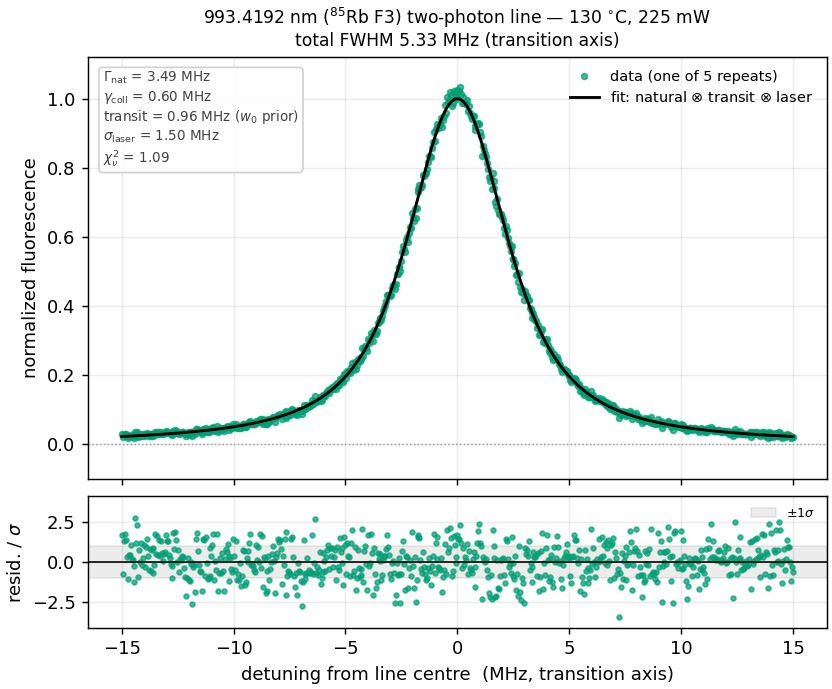
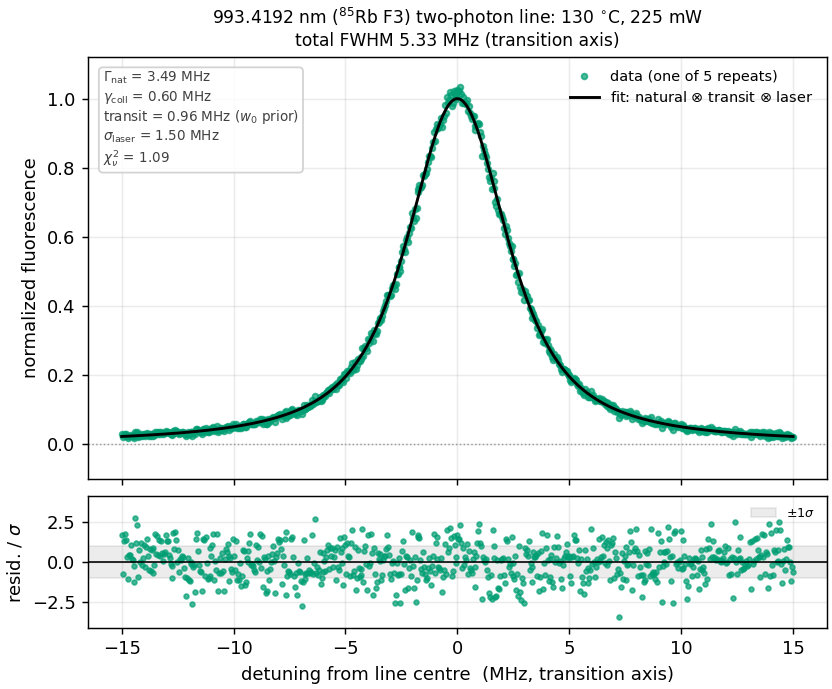
Port the figure-title sweep and the lint fix (archive 4e8f562, b62f7ab)
The rendered double-hyphen dashes and dialect caps leave every figure
title, and fig13's cascade labels print from the term energies. This also
clears the lint failure the previous port's CI run caught: the constants
the photograph rewrite had left dead are gone or back in use.

Changed region(s): [[0.25, 0.0, 0.8438, 0.061]]

diff --git a/scripts/make_figures.py b/scripts/make_figures.py
@@ -31,7 +31,7 @@ sys.path.insert(0, str(Path(__file__).resolve().parents[1]))
 from rb5s6s import config as C  # noqa: E402
 from rb5s6s.density import density_units  # noqa: E402
 from rb5s6s.constants import (  # noqa: E402
-    GAMMA_NAT_HZ, TRACE_N_POINTS, TRACE_DT_S, LAMBDA_LASER_M,
+    GAMMA_NAT_HZ, TRACE_N_POINTS, TRACE_DT_S,
     TOOTH_SPACING_LASER_HZ, DRIFT_RATE_LASER_HZ_PER_MIN)
 
 GNAT = GAMMA_NAT_HZ / 1e6
@@ -919,7 +919,7 @@ def fig_laser_history():
         ax.set_yscale("log")
         ax.set_xlabel("|step| between consecutive traces, same epoch (MHz)")
         ax.set_ylabel("count (log)")
-        ax.set_title(f"median {med:.2f} MHz with a tail to {s.max():.1f} MHz --\n"
+        ax.set_title(f"median {med:.2f} MHz with a tail to {s.max():.1f} MHz:\n"
                      "quiet drift, punctuated by cavity re-centrings", fontsize=8.5)
         ax.grid(alpha=0.25, lw=0.5, which="both")
 
@@ -1031,10 +1031,8 @@ def fig_level_scheme():
     # independently (the two used to agree only to ~0.01 nm by coincidence of
     # rounding, not by construction).
     from rb5s6s.polarizability import E_6S_CM, E_5P12_CM, E_5P32_CM
-    SPLIT_CM = E_5P32_CM - E_5P12_CM         # fine-structure splitting, 237.6 cm^-1
     LAM_6S_5P12_NM = 1.0e7 / (E_6S_CM - E_5P12_CM)   # 1324 nm, detected arm
     LAM_6S_5P32_NM = 1.0e7 / (E_6S_CM - E_5P32_CM)   # 1367 nm, rejected arm
-    E_VIRT_CM = 1.0e7 / (LAMBDA_LASER_M * 1e9)       # half the two-photon energy
 
     fig = plt.figure(figsize=(13.0, 6.2))
     gs = fig.add_gridspec(1, 2, width_ratios=[1.0, 1.45], wspace=0.06,
@@ -1071,12 +1069,14 @@ def fig_level_scheme():
     ax.annotate("", (0.56, y5p12 + 0.008), (0.30, y6s - 0.008),
                 arrowprops=dict(arrowstyle="-|>", color="0.5", lw=1.3,
                                  ls=(0, (4, 3))))
-    ax.text(0.365, 0.86, "1324 nm", rotation=-54, fontsize=7.5, color="0.45",
+    ax.text(0.365, 0.86, f"{LAM_6S_5P12_NM:.0f} nm", rotation=-54,
+            fontsize=7.5, color="0.45",
             ha="center", va="center")
     ax.annotate("", (0.66, y5p32 + 0.008), (0.335, y6s - 0.008),
                 arrowprops=dict(arrowstyle="-|>", color="0.5", lw=1.3,
                                  ls=(0, (4, 3))))
-    ax.text(0.50, 0.885, "1367 nm", rotation=-44, fontsize=7.5, color="0.45",
+    ax.text(0.50, 0.885, f"{LAM_6S_5P32_NM:.0f} nm", rotation=-44,
+            fontsize=7.5, color="0.45",
             ha="center", va="center")
     # cascade, second legs: 795 detected (red), 780 filtered out (grey)
     ax.annotate("", (0.295, y5s + 0.008), (0.545, y5p12 - 0.008),
@@ -1908,8 +1908,8 @@ def fig_width_trends():
     ax1.set_xlabel(r"Rb density $N$  ($10^{12}\,\mathrm{cm^{-3}}$, log)")
     ax1.set_ylabel("raw FWHM (MHz, transition; model-independent)")
     ax1.set_title("Floor + slope fit to the raw linewidth vs density: 3 temperature "
-                 "points per peak (dof=1) --\n"
-                 "the line and band ARE the fit the bound is built from, not a denser "
+                 "points per peak (dof=1).\n"
+                 "The line and band ARE the fit the bound is built from, not a denser "
                  "measurement.\n"
                  r"slope = $\beta_\mathrm{self}$, a bound not a measurement "
                  "(signal-to-noise $<$3, all four peaks)",
@@ -2006,7 +2006,7 @@ def fig_width_trends():
                  "results/power_sweep.csv, results/stark_sweep.csv (panel 2). Regenerate: "
                  "python scripts/run_beta_self.py && python scripts/run_stark_sweep.py "
                  "&& python scripts/make_figures.py.", fontsize=5.9)
-    _save(fig, "fig19_width_trends.png")
+    _save(fig, "fig19_width_trends.png", rect=(0, 0.05, 1, 1))
 
 
 def fig_magic_wavelengths():
@@ -2087,7 +2087,7 @@ def fig_magic_wavelengths():
             arrowprops=dict(arrowstyle="-", color="#D55E00", lw=0.7, alpha=0.6))
     ax_top.text(
         lo_nm + (hi_nm - lo_nm) * 0.02, CLIP * 0.88,
-        "at each crossing a trap pulls 5S and 6S equally --\n"
+        "at each crossing a trap pulls 5S and 6S equally:\n"
         "the 993 nm clock transition does not move",
         fontsize=7.6, color="0.3", ha="left", va="top")
     ax_top.set_ylabel(r"$\Delta\alpha=\alpha_{6S}-\alpha_{5S}$  (a.u.)")
@@ -2113,7 +2113,7 @@ def fig_magic_wavelengths():
         "A magic wavelength is where the differential light shift between two states vanishes:\n"
         "a trap there shifts both equally, so the transition it holds atoms for does not move.\n"
         r"Instance: Rb 5S$_{1/2}$-6S$_{1/2}$ (993 nm). Scalar-only, exact for $J=1/2$ under "
-        f"linear polarization. Status: {status}.",
+        f"linear polarization. Status: {STATUS_WORD.get(status, status.lower())}.",
         fontsize=9.0, y=0.995)
 
     _footer(fig, "Source: results/polarizability.csv (magic_5s6s rows) + rb5s6s/polarizability.py "
